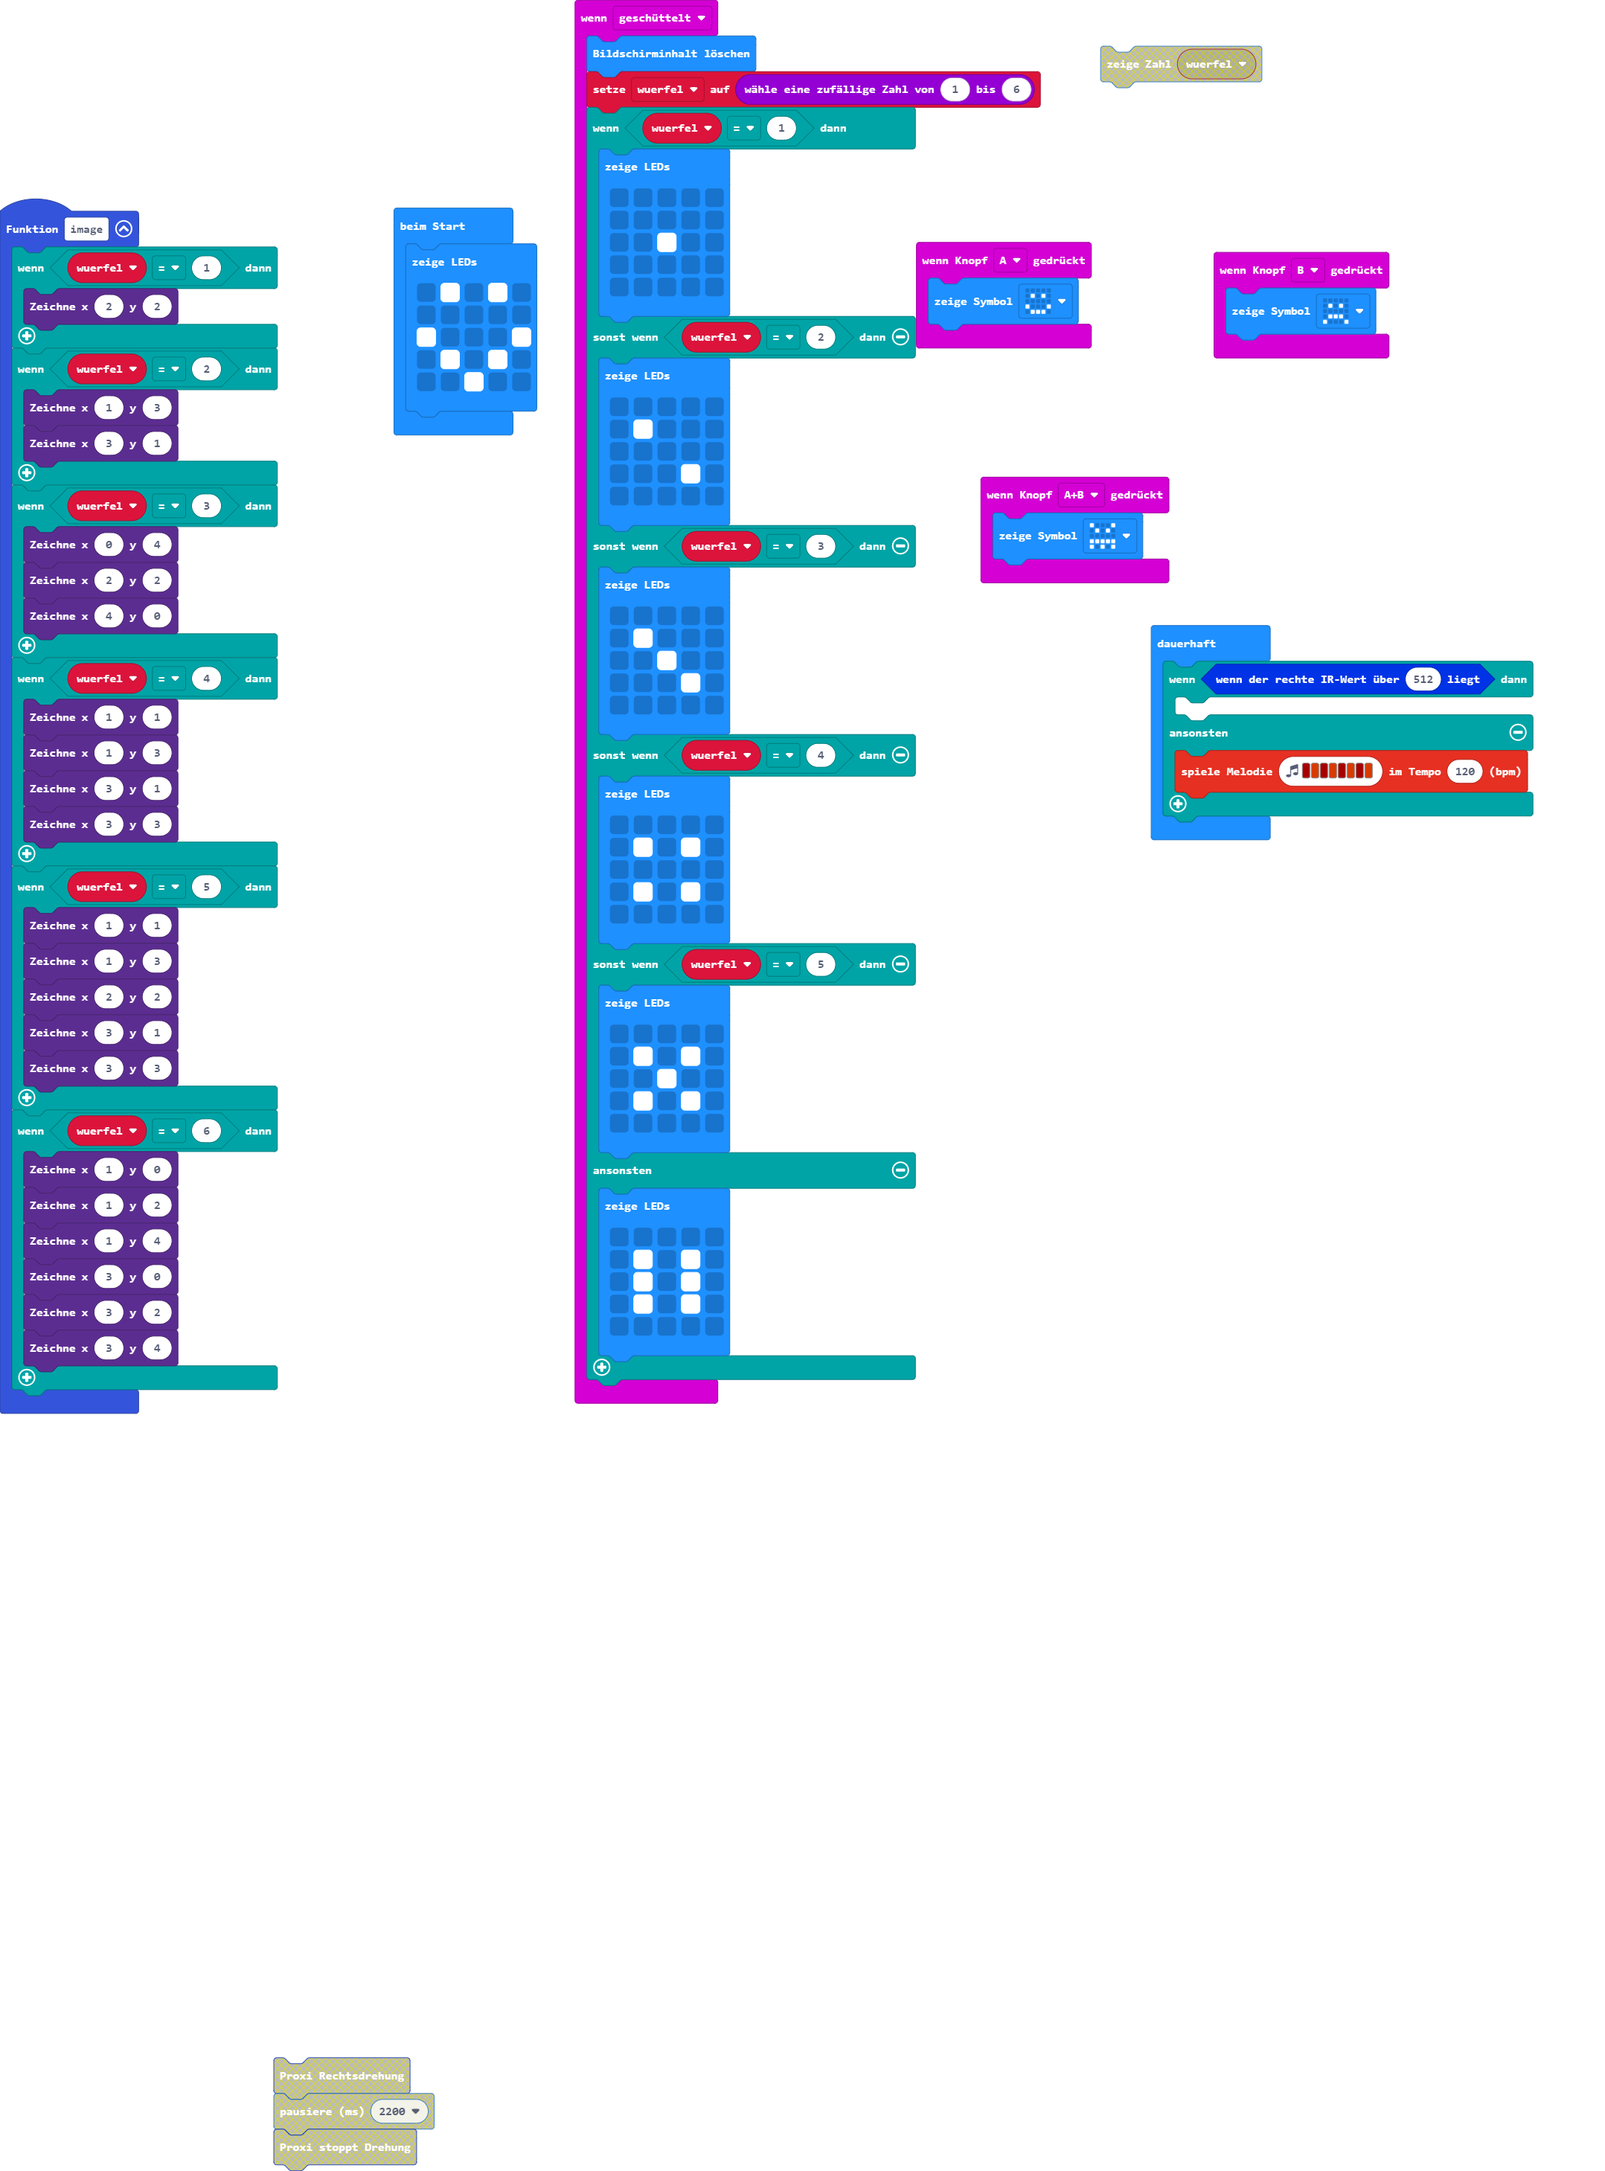
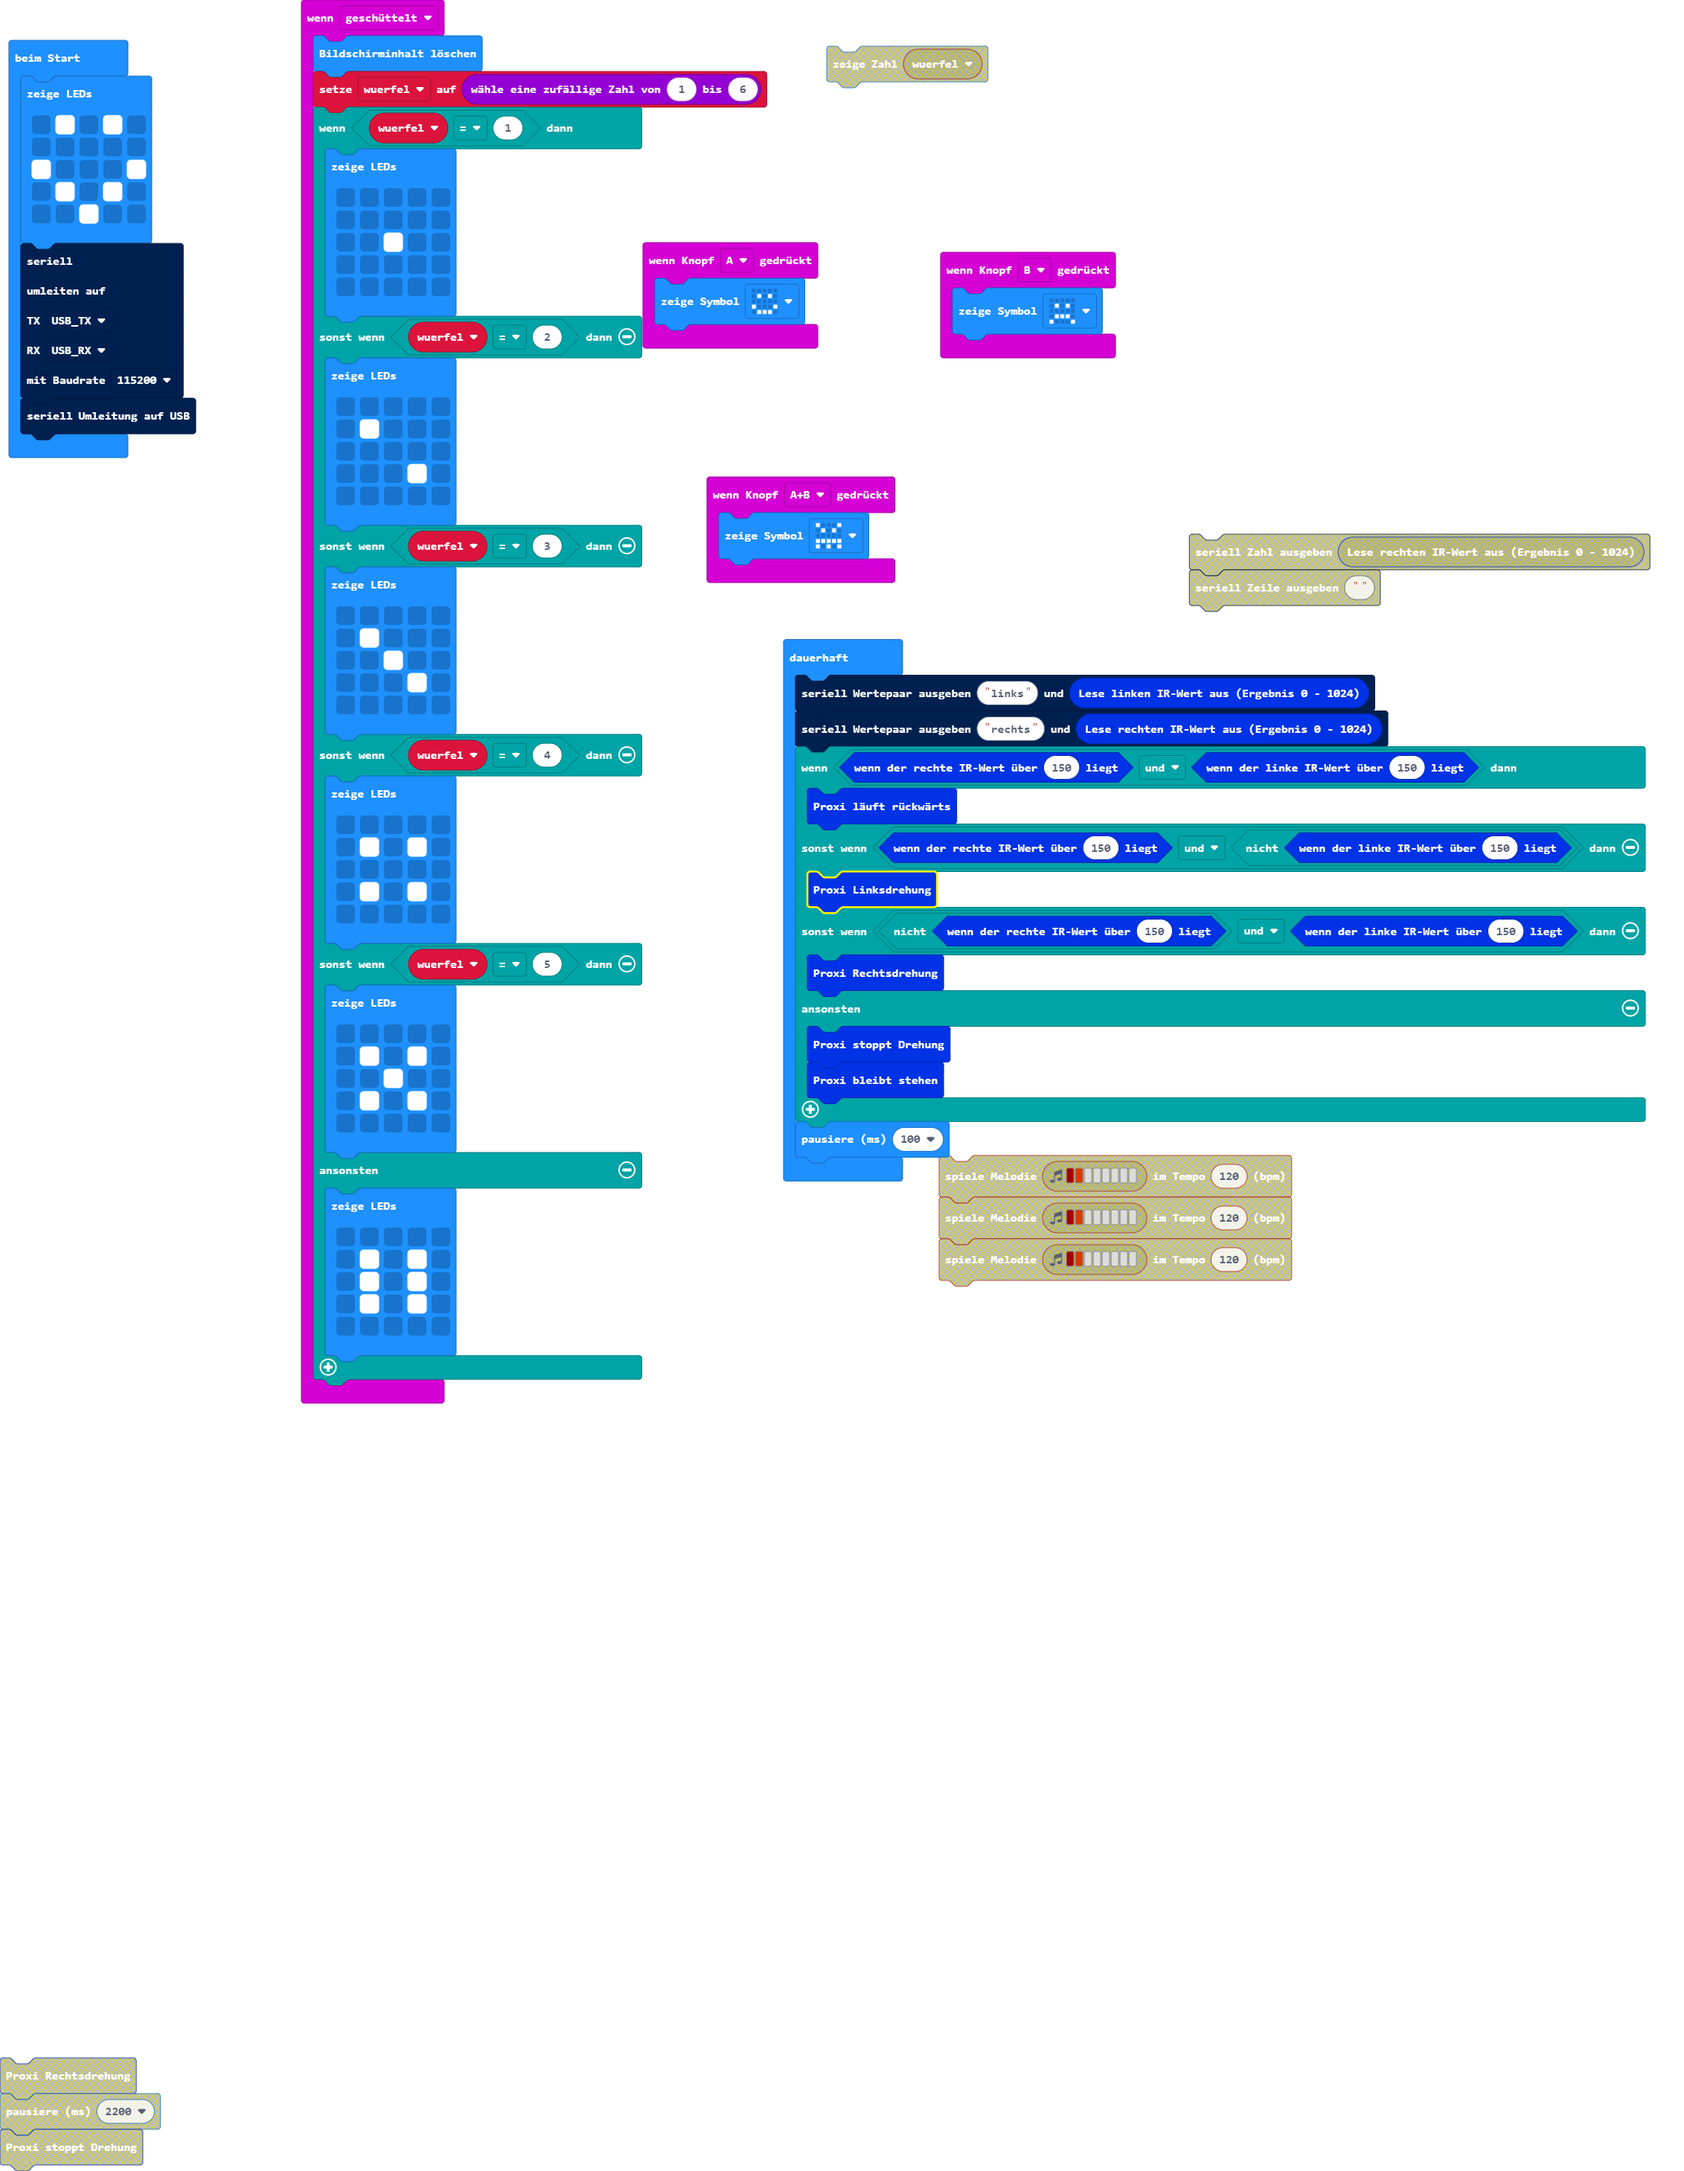
Aktualisiere main.blocks, main.ts

diff --git a/main.ts b/main.ts
@@ -68,10 +68,24 @@ basic.showLeds(`
     . # . # .
     . . # . .
     `)
+serial.redirect(
+SerialPin.USB_TX,
+SerialPin.USB_RX,
+BaudRate.BaudRate115200
+)
+serial.redirectToUSB()
 basic.forever(function () {
-    if (Proxi.RBlock(512)) {
-    	
+    serial.writeValue("links", Proxi.Lese_LBlock())
+    serial.writeValue("rechts", Proxi.Lese_RBlock())
+    if (Proxi.RBlock(150) && Proxi.LBlock(150)) {
+        Proxi.rückwärts()
+    } else if (Proxi.RBlock(150) && !(Proxi.LBlock(150))) {
+        Proxi.linksdrehung()
+    } else if (!(Proxi.RBlock(150)) && Proxi.LBlock(150)) {
+        Proxi.rechtsdrehung()
     } else {
-        music.playMelody("C5 B C5 B C5 B C5 B ", 120)
+        Proxi.drehungsstopp()
+        Proxi.stehenbleiben()
     }
+    basic.pause(100)
 })
